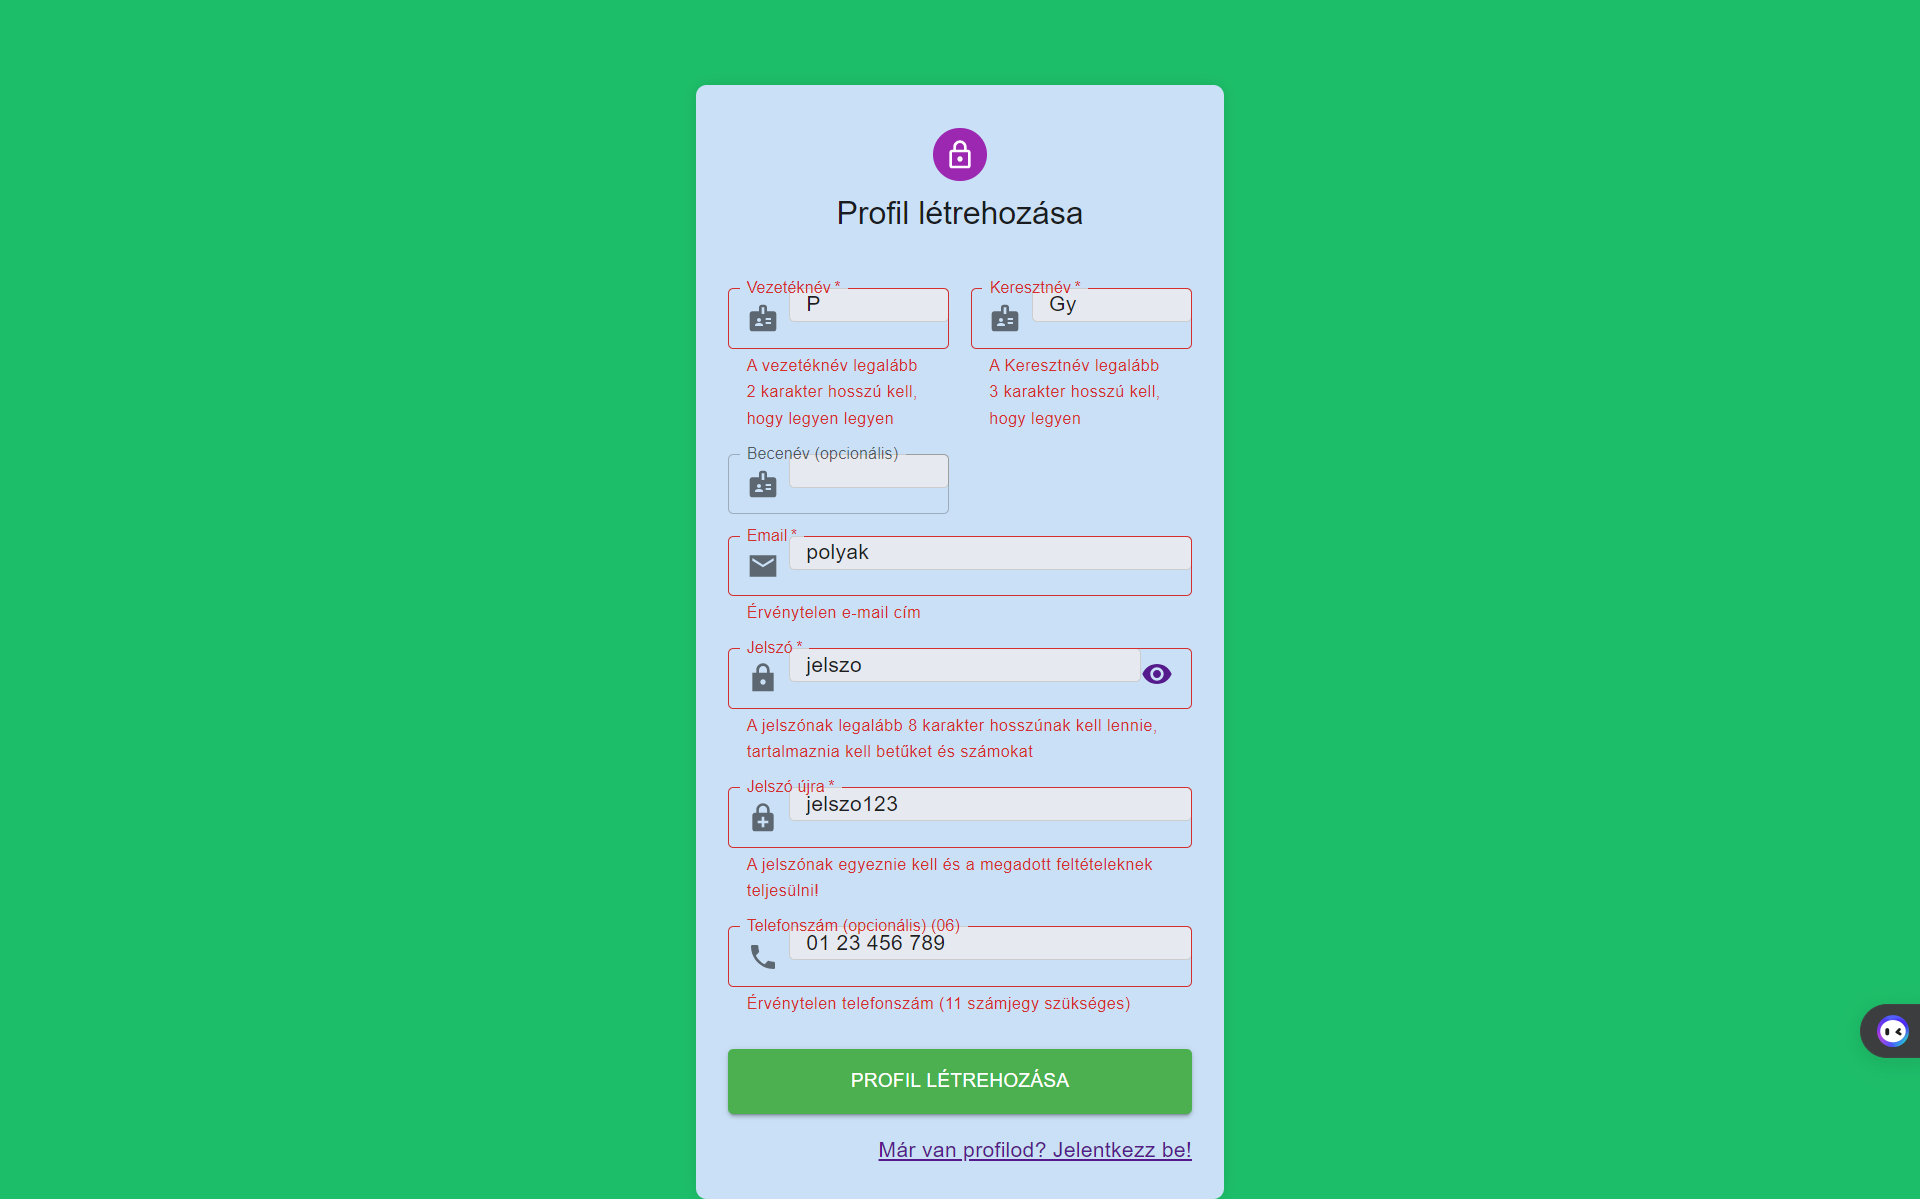
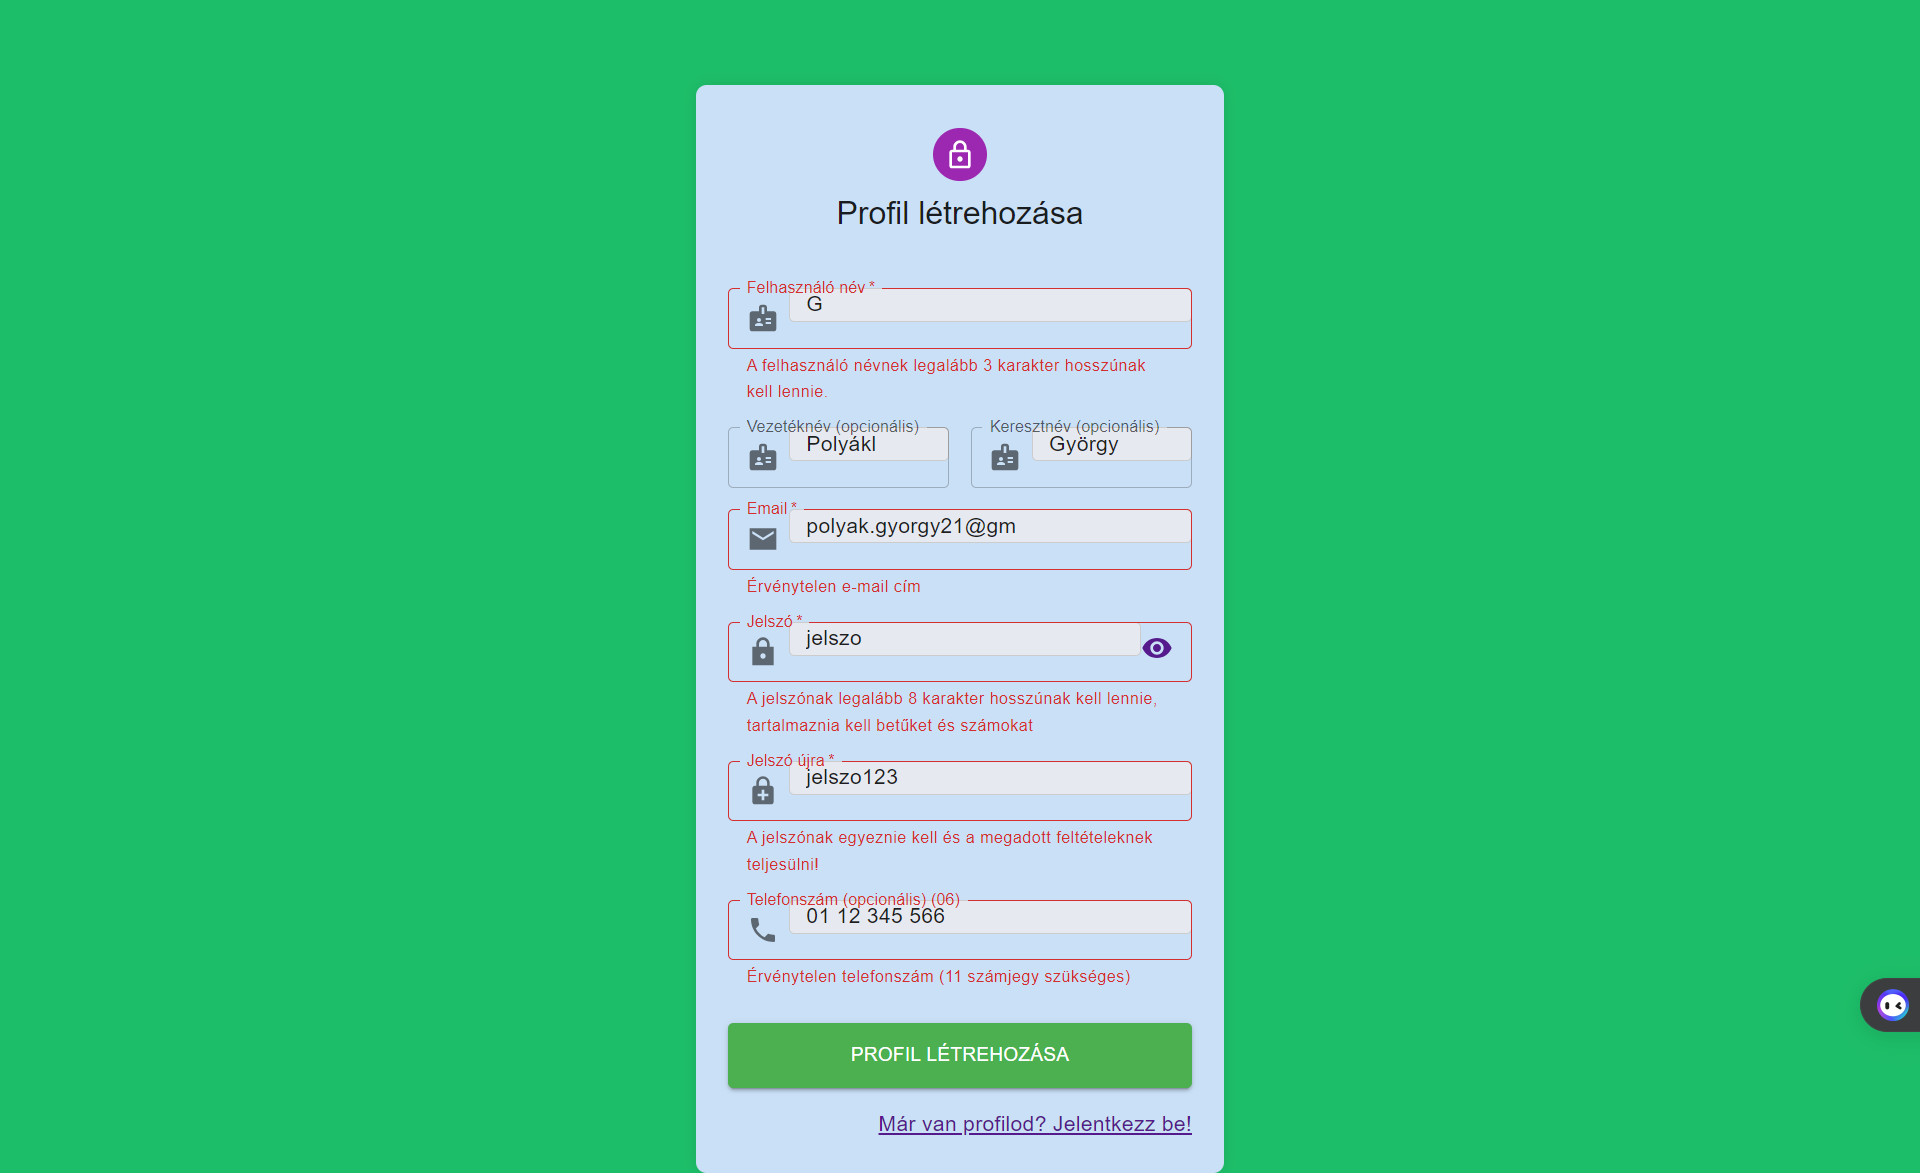
felhasználói dokumentáció elv kész

Changed region(s): [[0.375, 0.1228, 0.625, 0.8593], [0.4375, 0.89, 0.5625, 0.9207], [0.9688, 0.8286, 1.0, 0.89]]

diff --git a/Sulipedia/sulipedia/src/pages/SignIn/SignIn.jsx b/Sulipedia/sulipedia/src/pages/SignIn/SignIn.jsx
@@ -151,7 +151,7 @@ export default function SignIn({ setIsLoading, jwt }) {
                 required
                 fullWidth
                 id="email"
-                label="Email cím vagy teljes név"
+                label="Email cím vagy felhasználónév"
                 name="usernameOrEmail"
                 autoComplete="email"
                 autoFocus

diff --git a/Sulipedia Dokumentacio/frontend-docs/user-docs/SignUpFelhasznaloi.md b/Sulipedia Dokumentacio/frontend-docs/user-docs/SignUpFelhasznaloi.md
@@ -8,16 +8,17 @@ A Regisztrációs Oldal lehetővé teszi a felhasználók számára, hogy új pr
 
 ### Használat
 
-1. **Adatok megadása**: Töltsd ki az összes kötelező mezőt, mint például a vezetéknév, keresztnév, email cím és jelszó.
+1. **Adatok megadása**: Töltsd ki az összes kötelező mezőt, mint például a felhasználónév, email cím és jelszó.
 
 2. **Telefonszám (opcionális)**: Opcionálisan megadhatod a telefonszámodat, amely segíthet azonosítani, kapcsolatba lépni veled.
 
 3. **Becenév (opcionális)**: Opcionálisan megadhatod a becenevedet is.
 
+4. **Vezeték- és Keresztnév (opcionális)**: Opcionálisan megadhatod a Vezeték- és Keresztnevedet is.
 
-4. **Profil létrehozása**: Kattints a "Profil létrehozása" gombra a regisztráció befejezéséhez és az új fiók létrehozásához.
+5. **Profil létrehozása**: Kattints a "Profil létrehozása" gombra a regisztráció befejezéséhez és az új fiók létrehozásához.
 
-5. **Bejelentkezés**: Ha már van profilod, kattints a "Már van profilod? Jelentkezz be!" linkre a [SignInFelhasznaloi.md](bejelentkezési oldal)ra való navigáláshoz.
+6. **Bejelentkezés**: Ha már van profilod, kattints a "Már van profilod? Jelentkezz be!" linkre a [SignInFelhasznaloi.md](bejelentkezési oldal)ra való navigáláshoz.
 
 ---
 
@@ -43,3 +44,7 @@ Az oldal felhasználóbarát felülettel rendelkezik, amely lehetővé teszi a k
 - Győződj meg róla, hogy az email cím helyes formátumban van megadva.
 - Győződj meg róla, hogy a jelszó elég erős és tartalmaz legalább egy betűt és egy számot.
 - Ha telefonszámot adsz meg, győződj meg róla, hogy a számot a helyes formátumban adtad meg.
+
+![Regisztációs oldal hibás adatok](./images/SignUpAllWrongImg.png)
+
+![Regisztációs oldal helyes adatok](./images/SignUpAllGoodImg.png)

diff --git a/Sulipedia Dokumentacio/frontend-docs/user-docs/MyProfileFelhasznaloi.md b/Sulipedia Dokumentacio/frontend-docs/user-docs/MyProfileFelhasznaloi.md
@@ -5,7 +5,7 @@
 A MyProfile komponens lehetővé teszi a felhasználó számára, hogy megtekintse saját profiladatait egy könnyen áttekinthető felhasználói felületen. A profil tartalmazza az alábbi információkat:
 
 - **Profilkép**: Egy személyre szabott avatar kép, amely az első betűt mutatja a felhasználó vezetéknevéből..
-- **Felhasználónév vagy Becenév**: A felhasználó beceneve, ha ez nincs, akkor neve.
+- **Felhasználónév vagy Becenév**: A felhasználó felhasználóneve, ha pedig van beceneve, akkor az.
 - **E-mail cím**: A felhasználó regisztrált e-mail címe.
 - **Telefonszám**: A felhasználó regisztrált telefonszáma (ha elérhető).
 - **Regisztráció dátuma**: A felhasználó regisztrációjának dátuma.
